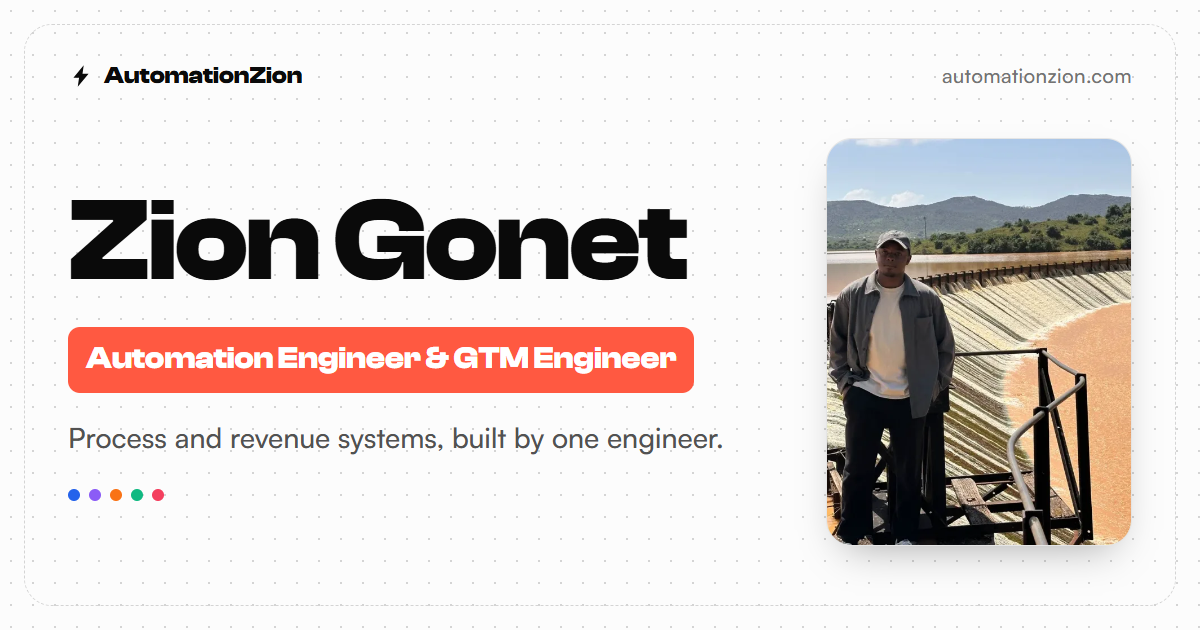
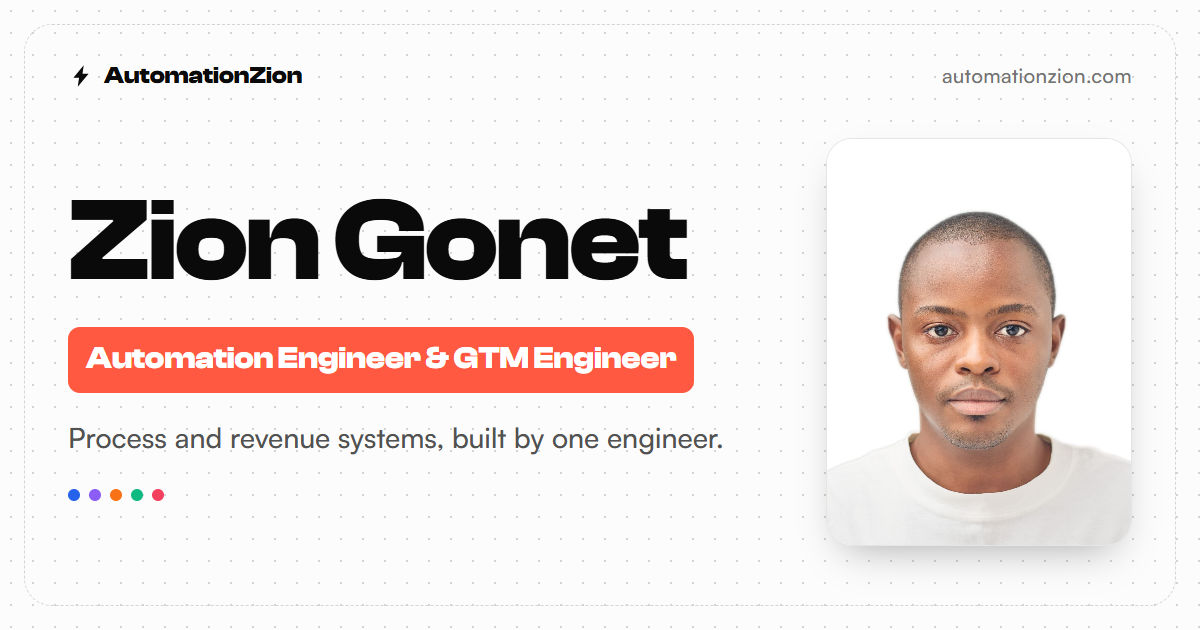
Reorder hero phrases, cache CMS pages at the edge and refresh share images
Hero rotation is now CRM system, workflow engine, AI system and revenue
engine, and the badge links to the About page. Home, blog and case study
pages send s-maxage so the edge serves a stored copy while it revalidates.
Home and about share images use the new headshot. Link hover text is dark
on coral for contrast, the first blog image is fetched at high priority,
and the countries line is removed from Stats.

Changed region(s): [[0.6783, 0.2111, 0.9558, 0.8746]]

diff --git a/src/lib/components/Hero.svelte b/src/lib/components/Hero.svelte
@@ -9,11 +9,10 @@
 	// acronyms are pronounced as letter names ("CRM" -> "see", a consonant sound,
 	// so "a CRM system" is correct) which a simple vowel-letter check gets wrong
 	const phrases = [
-		{ text: 'GTM stack', article: 'A' },
+		{ text: 'CRM system', article: 'A' },
 		{ text: 'workflow engine', article: 'A' },
 		{ text: 'AI system', article: 'An' },
-		{ text: 'revenue engine', article: 'A' },
-		{ text: 'CRM system', article: 'A' }
+		{ text: 'revenue engine', article: 'A' }
 	];
 
 	let phraseIndex = $state(0);
@@ -117,7 +116,7 @@
 	<div class="relative flex flex-col items-center justify-center gap-5 pt-46 pb-10">
 		<a
 			class="group mx-auto flex w-fit animate-in items-center gap-3 rounded-full border bg-card px-3 py-1 shadow transition-all delay-500 duration-500 ease-out fill-mode-backwards slide-in-from-bottom-10 fade-in"
-			href="/"
+			href="/about"
 		>
 			<svg
 				xmlns="http://www.w3.org/2000/svg"

diff --git a/src/routes/blog/[slug]/+page.server.js b/src/routes/blog/[slug]/+page.server.js
@@ -2,7 +2,9 @@ import { error } from '@sveltejs/kit';
 import { getPostBySlug } from '#lib/server/posts.js';
 
 export async function load({ params, locals, setHeaders }) {
-	setHeaders({ 'cache-control': 'public, max-age=300, stale-while-revalidate=3600' });
+	setHeaders({
+		'cache-control': 'public, max-age=300, s-maxage=3600, stale-while-revalidate=86400'
+	});
 
 	try {
 		return { post: await getPostBySlug(locals.pb, params.slug) };

diff --git a/src/routes/case-studies/[slug]/+page.server.js b/src/routes/case-studies/[slug]/+page.server.js
@@ -2,7 +2,9 @@ import { error } from '@sveltejs/kit';
 import { getPostBySlug } from '#lib/server/posts.js';
 
 export async function load({ params, locals, setHeaders }) {
-	setHeaders({ 'cache-control': 'public, max-age=300, stale-while-revalidate=3600' });
+	setHeaders({
+		'cache-control': 'public, max-age=300, s-maxage=3600, stale-while-revalidate=86400'
+	});
 
 	try {
 		return { post: await getPostBySlug(locals.pb, params.slug) };

diff --git a/src/routes/case-studies/+page.server.js b/src/routes/case-studies/+page.server.js
@@ -1,7 +1,7 @@
 import { listPostsByCategory } from '#lib/server/posts.js';
 
 export async function load({ locals, setHeaders }) {
-	setHeaders({ 'cache-control': 'public, max-age=60, stale-while-revalidate=300' });
+	setHeaders({ 'cache-control': 'public, max-age=60, s-maxage=300, stale-while-revalidate=86400' });
 
 	try {
 		return { caseStudies: await listPostsByCategory(locals.pb, 'case study') };

diff --git a/src/routes/+page.server.js b/src/routes/+page.server.js
@@ -1,7 +1,7 @@
 import { getFeaturedCaseStudies } from '#lib/server/posts.js';
 
 export async function load({ locals, setHeaders }) {
-	setHeaders({ 'cache-control': 'public, max-age=60, stale-while-revalidate=300' });
+	setHeaders({ 'cache-control': 'public, max-age=60, s-maxage=300, stale-while-revalidate=86400' });
 
 	try {
 		return { caseStudies: await getFeaturedCaseStudies(locals.pb) };

diff --git a/src/routes/blog/+page.server.js b/src/routes/blog/+page.server.js
@@ -1,7 +1,7 @@
 import { listPostsByCategory } from '#lib/server/posts.js';
 
 export async function load({ locals, setHeaders }) {
-	setHeaders({ 'cache-control': 'public, max-age=60, stale-while-revalidate=300' });
+	setHeaders({ 'cache-control': 'public, max-age=60, s-maxage=300, stale-while-revalidate=86400' });
 
 	try {
 		return { posts: await listPostsByCategory(locals.pb, 'blog') };

diff --git a/src/lib/components/Blog.svelte b/src/lib/components/Blog.svelte
@@ -36,6 +36,7 @@
 							src={post.thumbnailUrl}
 							alt={post.title}
 							loading={i < 2 ? 'eager' : 'lazy'}
+							fetchpriority={i === 0 ? 'high' : 'auto'}
 							width="192"
 							height="144"
 							class="aspect-video w-full flex-shrink-0 rounded-lg object-cover transition-transform duration-500 group-hover:scale-105 sm:aspect-auto sm:h-36 sm:w-48"

diff --git a/src/lib/components/Stats.svelte b/src/lib/components/Stats.svelte
@@ -43,9 +43,6 @@
 				</p>
 			</div>
 		</div>
-		<p class="mt-8 text-sm text-muted-foreground opacity-0" use:reveal={{ delay: 250 }}>
-			Worked with teams in the US, UK, Australia and the Netherlands.
-		</p>
 	</div>
 	<div
 		aria-hidden={true}

diff --git a/src/routes/layout.css b/src/routes/layout.css
@@ -202,7 +202,7 @@ a.link-fill:focus-visible,
 a:hover .link-fill,
 a:focus-visible .link-fill {
 	background-size: 100% 100%;
-	color: #fff;
+	color: #0a0a0a;
 }
 
 @media (prefers-reduced-motion: reduce) {
